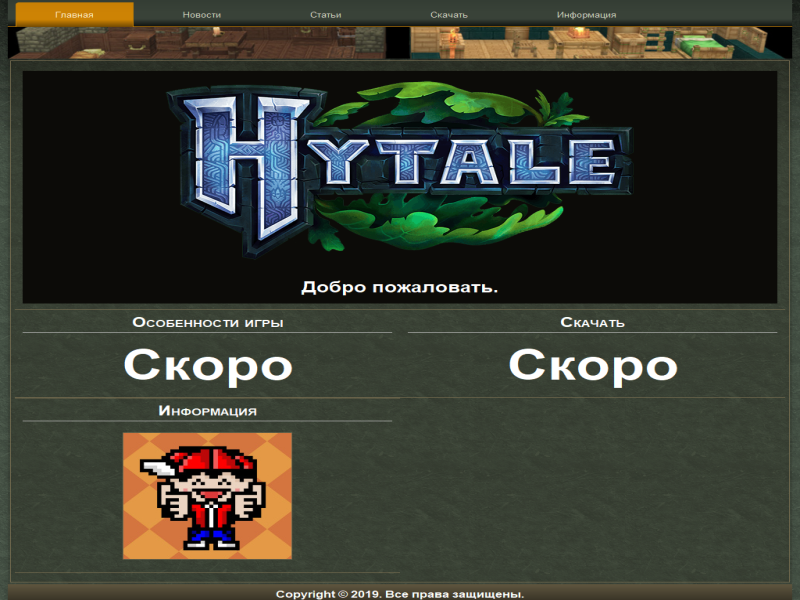
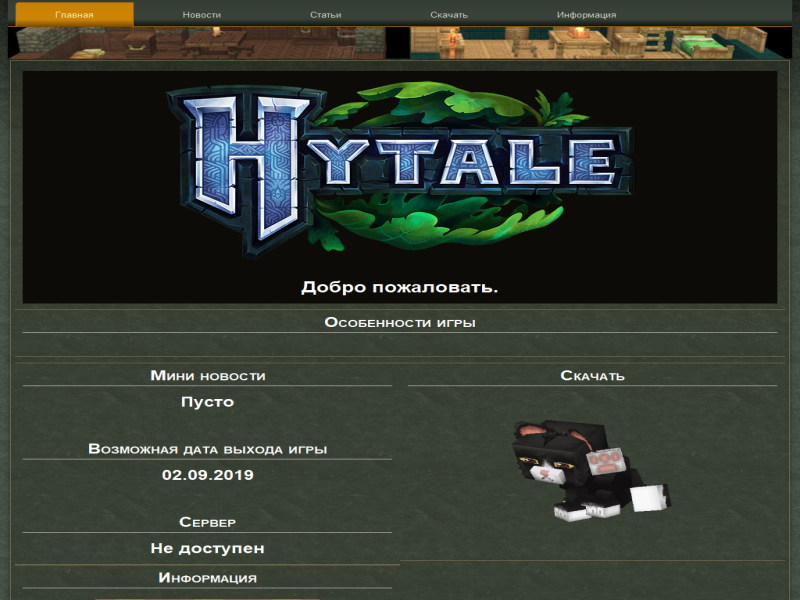
Обновление сайта

diff --git a/index.html b/index.html
@@ -16,11 +16,11 @@
 
 
 <style>.art-content .art-postcontent-0 .layout-item-0 { margin-right: 10px;margin-bottom: 10px;margin-left: 10px;  }
-.art-content .art-postcontent-0 .layout-item-1 { color: #FDDFAA; background: #0C0B08;  }
-.art-content .art-postcontent-0 .layout-item-2 { color: #FDDFAA; padding-right: 10px;padding-left: 10px;  }
+.art-content .art-postcontent-0 .layout-item-1 { color: #BAB097; background: #0C0B08;  }
+.art-content .art-postcontent-0 .layout-item-2 { color: #BAB097; padding-right: 10px;padding-left: 10px;  }
 .art-content .art-postcontent-0 .layout-item-3 { margin-bottom: 10px;  }
-.art-content .art-postcontent-0 .layout-item-4 { color: #FDDBA0; border-spacing: 10px 0px; border-collapse: separate;  }
-.art-content .art-postcontent-0 .layout-item-5 { border-top-style:solid;border-right-style:solid;border-bottom-style:solid;border-left-style:solid;border-top-width:1px;border-right-width:1px;border-bottom-width:1px;border-left-width:1px;border-top-color:#776D50;border-right-color:#776D50;border-bottom-color:#776D50;border-left-color:#776D50; color: #FDDBA0; padding-right: 10px;padding-left: 10px;  }
+.art-content .art-postcontent-0 .layout-item-4 { border-spacing: 10px 0px; border-collapse: separate;  }
+.art-content .art-postcontent-0 .layout-item-5 { border-top-style:solid;border-right-style:solid;border-bottom-style:solid;border-left-style:solid;border-top-width:1px;border-right-width:1px;border-bottom-width:1px;border-left-width:1px;border-top-color:#776D50;border-right-color:#776D50;border-bottom-color:#776D50;border-left-color:#776D50; padding-right: 10px;padding-left: 10px;  }
 .ie7 .post .layout-cell {border:none !important; padding:0 !important; }
 .ie6 .post .layout-cell {border:none !important; padding:0 !important; }
 
@@ -62,15 +62,31 @@
 <div class="art-content-layout-wrapper layout-item-3">
 <div class="art-content-layout layout-item-4">
     <div class="art-content-layout-row">
+    <div class="art-layout-cell layout-item-5" style="width: 100%" >
+        <h3 style="padding-bottom: 5px; border-bottom-width: 1px; border-bottom-style: solid; border-bottom-color: rgb(189, 189, 189);"><span style="color: rgb(255, 255, 255); font-size: 24px; font-weight: bold;">Особенности игры</span></h3>
+        <p><br></p>
+    </div>
+    </div>
+</div>
+</div>
+<div class="art-content-layout-wrapper layout-item-3">
+<div class="art-content-layout layout-item-4">
+    <div class="art-content-layout-row">
     <div class="art-layout-cell layout-item-5" style="width: 33%" >
-        <h3 style="border-bottom: 1px solid #BDBDBD; padding-bottom: 5px"><span style="color: rgb(255, 255, 255); font-size: 24px; font-weight: bold;">Особенности игры</span><br></h3>
-        <p style="text-align: center;"><span style="color: rgb(255, 255, 255); font-size: 72px; font-weight: bold;">Скоро</span><span style="color: rgb(255, 255, 255); font-size: 24px; font-weight: bold;"><br></span></p>
+        <h3 style="padding-bottom: 5px; border-bottom-width: 1px; border-bottom-style: solid; border-bottom-color: rgb(189, 189, 189);"><span style="color: rgb(255, 255, 255); font-size: 24px; font-weight: bold;">Мини новости</span><br></h3>
+        <p style="text-align: center;"><span style="color: rgb(255, 255, 255); font-size: 24px; font-weight: bold;">Пусто</span></p>
+        <p style="text-align: center;"><span style="color: rgb(255, 255, 255); font-size: 24px; font-weight: bold;"><br></span></p>
+        <h3 style="padding-bottom: 5px; border-bottom-width: 1px; border-bottom-style: solid; border-bottom-color: rgb(189, 189, 189);"><span style="color: rgb(255, 255, 255); font-size: 24px; font-weight: bold;">Возможная дата выхода игры</span></h3>
+        <p style="text-align: center;"><span style="color: rgb(255, 255, 255); font-size: 24px; font-weight: bold;">02.09.2019</span></p>
+        <p style="text-align: center;"><span style="color: rgb(255, 255, 255); font-size: 24px; font-weight: bold;"><br></span></p>
+        <h3 style="padding-bottom: 5px; border-bottom-width: 1px; border-bottom-style: solid; border-bottom-color: rgb(189, 189, 189);"><span style="color: rgb(255, 255, 255); font-size: 24px; font-weight: bold;">Сервер</span></h3>
+        <p style="text-align: center;"><span style="color: rgb(255, 255, 255); font-size: 24px; font-weight: bold;">Не доступен</span></p>
     </div><div class="art-layout-cell layout-item-5" style="width: 34%" >
-        <h3 style="padding-bottom: 5px; border-bottom-width: 1px; border-bottom-style: solid; border-bottom-color: rgb(189, 189, 189);"><span style="color: rgb(255, 255, 255); font-size: 24px; font-weight: bold;">Скачать</span><br></h3>
-        <p style="text-align: center;"><span style="color: rgb(255, 255, 255); font-weight: bold; font-size: 72px;">Скоро</span><span style="color: rgb(255, 255, 255); font-size: 24px; font-weight: bold;"><br></span></p>
+        <h3 style="padding-bottom: 5px; border-bottom-width: 1px; border-bottom-style: solid; border-bottom-color: rgb(189, 189, 189);"><span style="color: rgb(255, 255, 255); font-size: 24px; font-weight: bold;">Скачать</span></h3>
+        <p style="text-align: center;"><a href="down.html"><img width="296" height="256" alt="" src="images/5c116cf1a8abd90012df93f2_fungif_3___cute_cat.gif" style="border-top-width: 0px; border-right-width: 0px; border-bottom-width: 0px; border-left-width: 0px; " class=""></a><br></p>
     </div><div class="art-layout-cell layout-item-5" style="width: 33%" >
-        <h3 style="padding-bottom: 5px; border-bottom-width: 1px; border-bottom-style: solid; border-bottom-color: rgb(189, 189, 189);"><span style="font-size: 24px; font-weight: bold; color: rgb(255, 255, 255);">Информация</span></h3>
-        <p style="text-align: center;"><a href="info.html"><img width="215" height="215" alt="" src="images/unnamed.jpg" class=""></a><br></p>
+        <h3 style="padding-bottom: 5px; border-bottom-width: 1px; border-bottom-style: solid; border-bottom-color: rgb(189, 189, 189);"><span style="color: rgb(255, 255, 255); font-size: 24px; font-weight: bold;">Информация</span></h3>
+        <p style="text-align: center;"><a href="info.html"><img width="287" height="287" alt="" src="images/unnamed-2.jpg" style="border-top-width: 0px; border-right-width: 0px; border-bottom-width: 0px; border-left-width: 0px; " class=""></a><br></p>
     </div>
     </div>
 </div>

diff --git a/st/faq.html b/st/faq.html
@@ -19,7 +19,7 @@
 .art-content .art-postcontent-0 .layout-item-1 { color: #B4A98E; padding-right: 10px;padding-left: 10px;  }
 .art-content .art-postcontent-0 .layout-item-2 { margin-bottom: 10px;  }
 .art-content .art-postcontent-0 .layout-item-3 { border-spacing: 10px 0px; border-collapse: separate;  }
-.art-content .art-postcontent-0 .layout-item-4 { border-top-style:solid;border-right-style:solid;border-bottom-style:solid;border-left-style:solid;border-top-width:1px;border-right-width:1px;border-bottom-width:1px;border-left-width:1px;border-top-color:#776D50;border-right-color:#776D50;border-bottom-color:#776D50;border-left-color:#776D50; background: #0C0B08; padding-right: 10px;padding-left: 10px;  }
+.art-content .art-postcontent-0 .layout-item-4 { border-top-style:solid;border-right-style:solid;border-bottom-style:solid;border-left-style:solid;border-top-width:1px;border-right-width:1px;border-bottom-width:1px;border-left-width:1px;border-top-color:#776D50;border-right-color:#776D50;border-bottom-color:#776D50;border-left-color:#776D50; color: #BAB097; background: #0C0B08; padding-right: 10px;padding-left: 10px;  }
 .ie7 .post .layout-cell {border:none !important; padding:0 !important; }
 .ie6 .post .layout-cell {border:none !important; padding:0 !important; }
 
